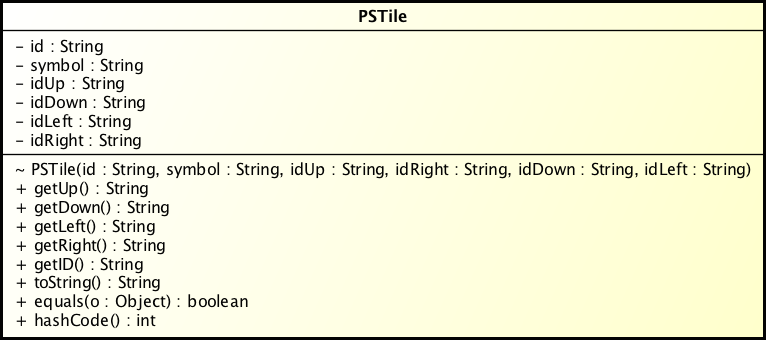
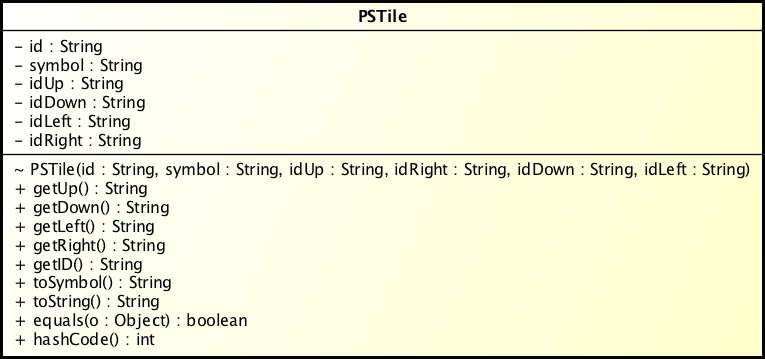
Aggiorna relazione e diagrammi alla nuova interfaccia Tile.

Changed region(s): [[0.0, 0.0, 1.0, 0.9706]]

diff --git a/report/relazione.tex b/report/relazione.tex
@@ -104,7 +104,9 @@
 
         Come si può vedere dalla figura ~\ref{uml:pstile}, la classe PSTile è una banale implementazione dell'interfaccia \verb|Tile|. 
 
-        Da notare la ridefinizione del metodo \verb|toString()|, che ora restituisce il simbolo del pezzo.
+        Da notare la ridefinizione del metodo \verb|toSymbol()| che ora restituisce una stringa come simbolo del pezzo, anziché un \verb|Object| come nella definizione dell'interfaccia. Questo è possibile in quanto \verb|String| è sottotipo di \verb|Object|.
+
+        Inoltre, il metodo \verb|toString| di \verb|PSTile| è fatto puntare al metodo \verb|toSymbol|.
 
       \subsubsection{TileParser}
 
